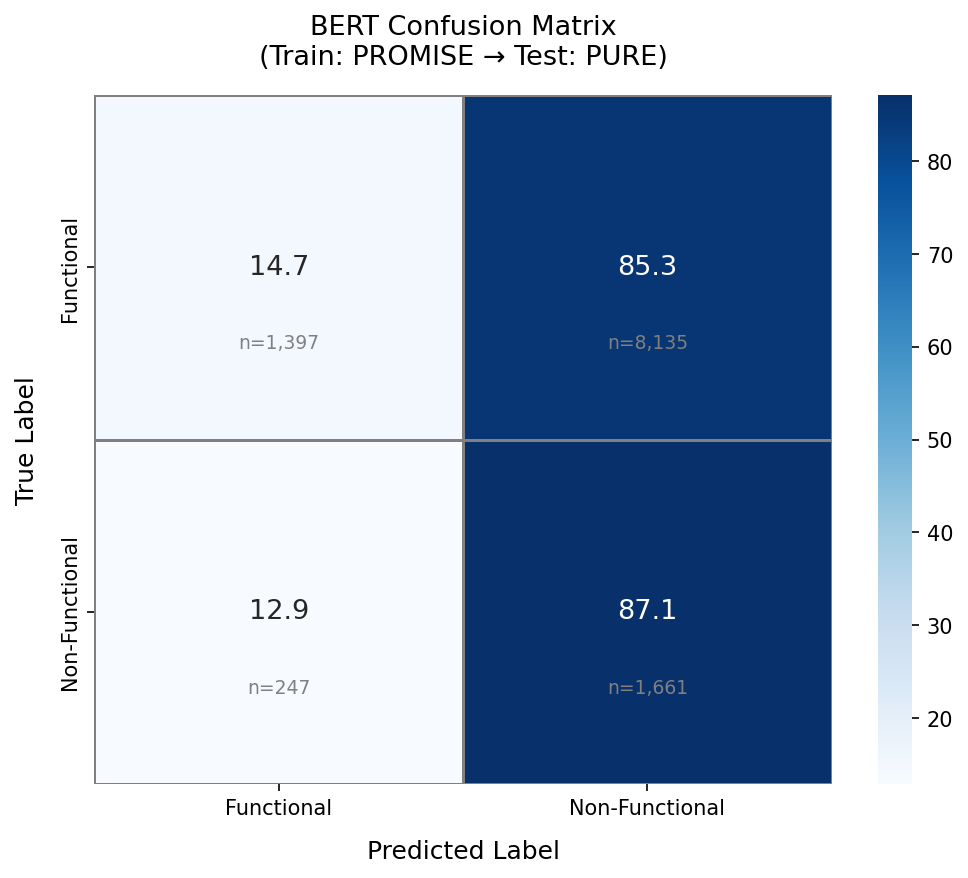
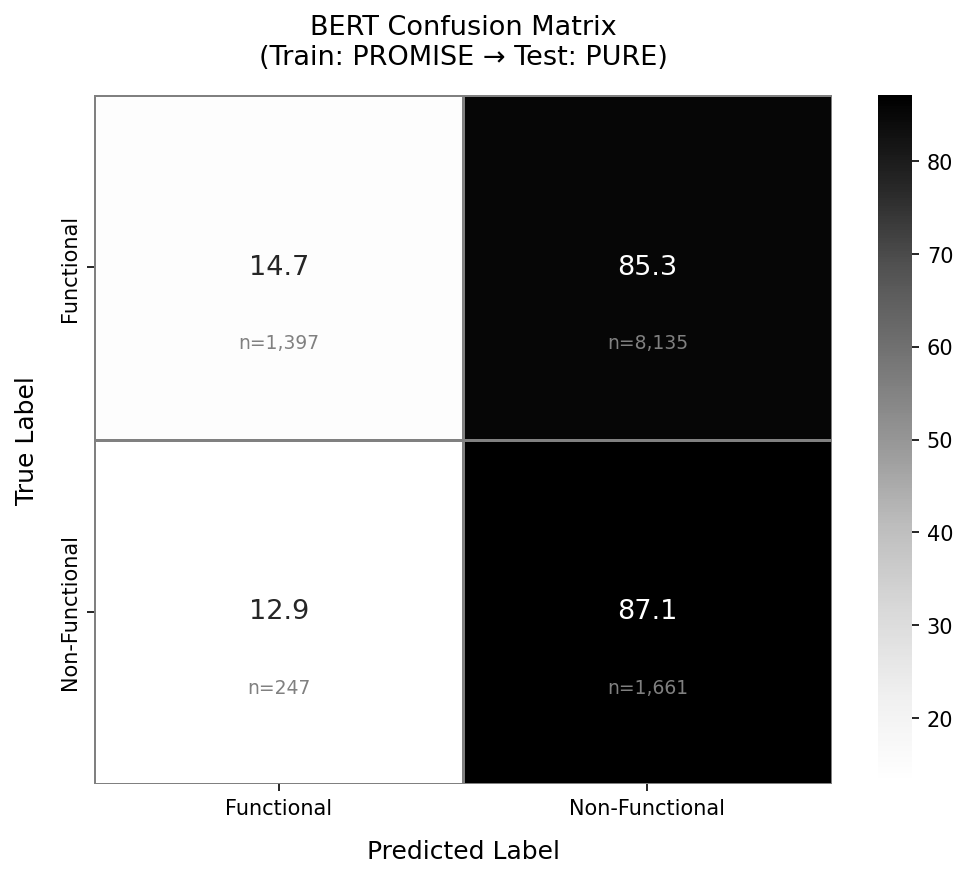
Update visuals and code changes

diff --git a/src/analyze_label_distribution.py b/src/analyze_label_distribution.py
@@ -71,9 +71,6 @@ axes[1].set_title('PURE Dataset\n(11,440 requirements)', fontsize=13, pad=15)
 fig.suptitle('Label Distribution Comparison\nPROMISE vs PURE',
              fontsize=14, fontweight='bold', y=1.02)
 
-fig.text(0.5, 0.02,
-         'Majority class completely reverses between datasets — worst-case domain shift',
-         ha='center', fontsize=10, color='#b71c1c', style='italic')
 
 plt.tight_layout()
 plt.savefig('label_distribution.png', dpi=150, bbox_inches='tight')

diff --git a/src/generate_visuals.py b/src/generate_visuals.py
@@ -108,7 +108,7 @@ sns.heatmap(
     tfidf_cm_pct,
     annot=True,
     fmt='.1f',
-    cmap='rocket',
+    cmap='Greys',
     xticklabels=labels,
     yticklabels=labels,
     ax=ax,
@@ -164,7 +164,7 @@ sns.heatmap(
     bert_cm_pct,
     annot=True,
     fmt='.1f',
-    cmap='Blues',
+    cmap='Greys',
     xticklabels=labels,
     yticklabels=labels,
     ax=ax,
